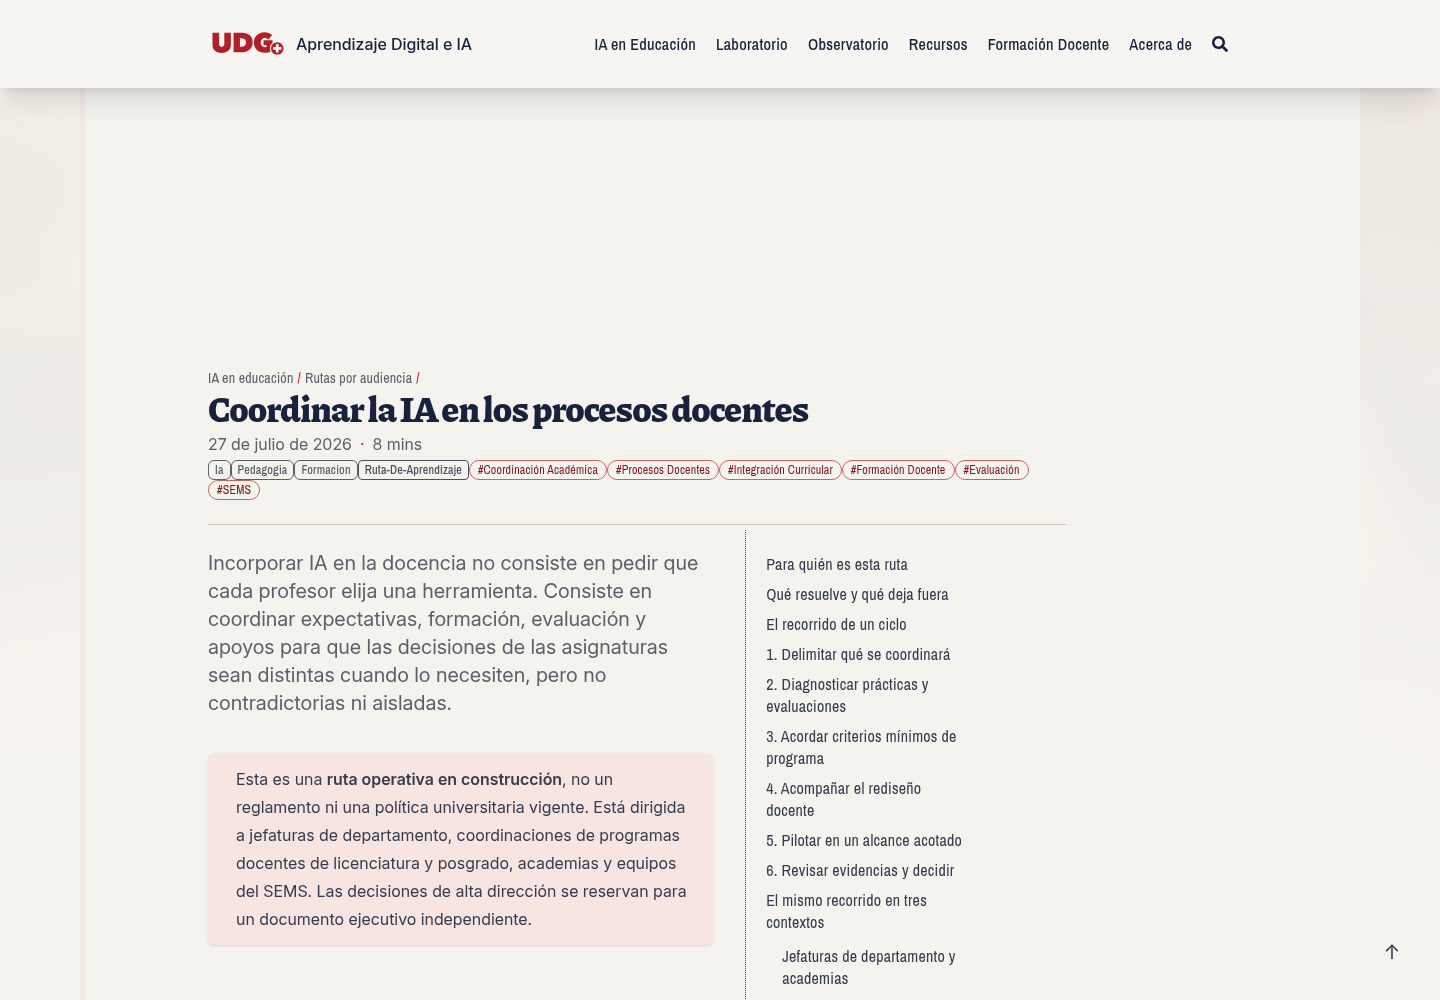
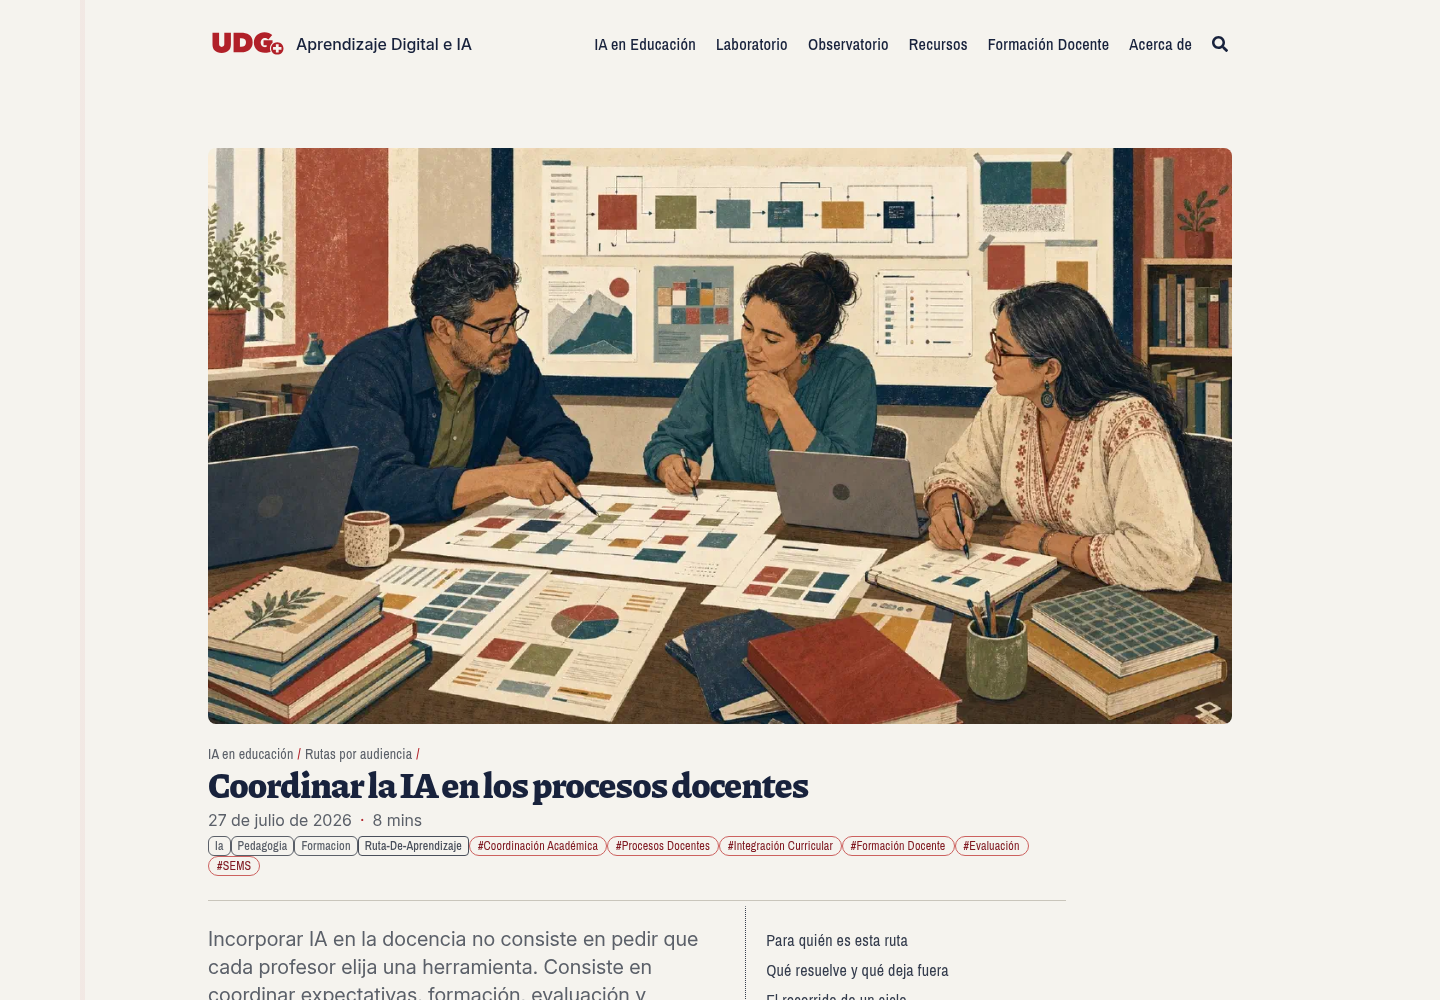
fix: mostrar portadas editoriales sin deformacion

diff --git a/assets/css/custom.css b/assets/css/custom.css
@@ -117,6 +117,12 @@ header {
   background-color: rgb(245 243 238 / 82%) !important;
 }
 
+article > figure:first-child > img.single_hero_round {
+  height: auto;
+  max-height: none;
+  object-fit: contain;
+}
+
 .card-bg {
   background-color: var(--udg-c-surface);
   border-color: var(--udg-c-line);

diff --git a/docs/editorial/UDGIA-004C-alcance-coordinacion-academica.md b/docs/editorial/UDGIA-004C-alcance-coordinacion-academica.md
@@ -74,6 +74,11 @@ Almagre, sin logos, texto legible, robots, hologramas ni símbolos de alta direc
 imagen funciona como acompañamiento editorial: la página no depende de ella para comunicar
 audiencias, etapas o decisiones.
 
+La imagen se presenta como `heroStyle: big`, en el flujo de lectura y antes del título. El
+estilo local neutraliza el límite de altura de Blowfish que deformaba la imagen y conserva su
+proporción 16:9 tanto en escritorio como en móvil. La misma corrección se aplica a la portada
+introductoria «Empezar con IA para aprender y enseñar».
+
 Contenido visual: UDGPlus, CC BY-SA 4.0.
 
 ## 6. Resultado observable
@@ -109,6 +114,9 @@ en Chromium:
 | Build Hugo | 916 páginas |
 | Vista escritorio | 1440 px, sin desbordamiento |
 | Vista móvil | 375 px, sin desbordamiento |
+| Featured de coordinación | visible a 1024 × 576 px en escritorio y 327 × 184 px en móvil |
+| Featured de introducción | visible a 1024 × 576 px en escritorio y 327 × 184 px en móvil |
+| Proporción de featured | 16:9 natural, sin recorte ni deformación |
 | Arquitectura de contenido | 7 tarjetas, 2 tablas, 17 secciones y cero H5P |
 | Gráfico del ciclo | 505 × 746 px en escritorio; 327 × 483 px en móvil |
 | Contextos | jefaturas/academias, licenciatura/posgrado y SEMS presentes |

diff --git a/content/ia-educacion/constelaciones/cocreacion-evaluacion/index.md b/content/ia-educacion/constelaciones/cocreacion-evaluacion/index.md
@@ -11,6 +11,7 @@ tags: ["introducción a la IA", "aprendizaje", "docencia", "alfabetización en I
 categories: ["ruta-de-aprendizaje"]
 areas: ["ia", "pedagogia", "formacion"]
 showHero: true
+heroStyle: "big"
 showBreadcrumbs: true
 showSummary: true
 showTableOfContents: true

diff --git a/content/ia-educacion/rutas/coordinacion-academica/index.md b/content/ia-educacion/rutas/coordinacion-academica/index.md
@@ -9,7 +9,7 @@ categories: ["ruta-de-aprendizaje"]
 areas: ["ia", "pedagogia", "formacion"]
 weight: 10
 showHero: true
-heroStyle: "background"
+heroStyle: "big"
 showBreadcrumbs: true
 showSummary: true
 showTableOfContents: true
